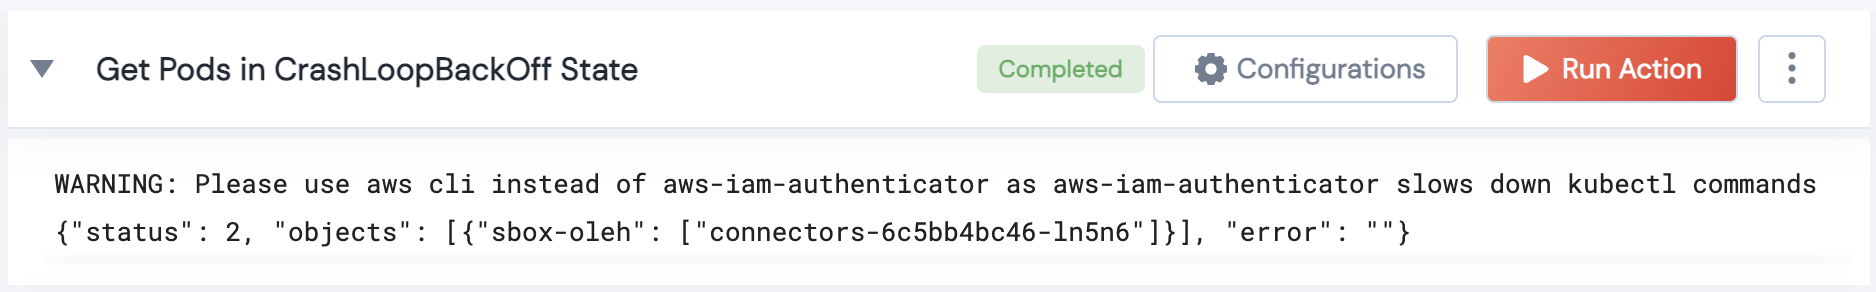
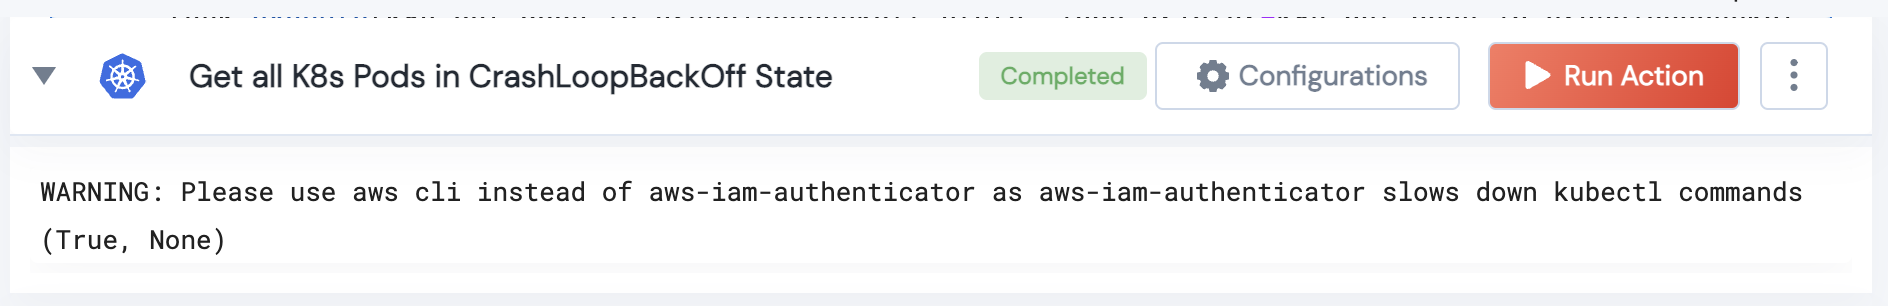
Updated check legos

diff --git a/Kubernetes/legos/k8s_get_config_map_kube_system/k8s_get_config_map_kube_system.py b/Kubernetes/legos/k8s_get_config_map_kube_system/k8s_get_config_map_kube_system.py
@@ -2,16 +2,16 @@
 # Copyright (c) 2021 unSkript, Inc
 # All rights reserved.
 ##
-from typing import List
-
+from typing import Optional, List, Tuple
 from kubernetes import client
 from pydantic import BaseModel, Field
 from tabulate import tabulate
+from unskript.legos.kubernetes.k8s_kubectl_command.k8s_kubectl_command import k8s_kubectl_command
 
 
 class InputSchema(BaseModel):
-    namespace: str = Field(
-        default='all',
+    namespace: Optional[str] = Field(
+        default=" ",
         title='Namespace',
         description='Kubernetes namespace')
     config_map_name: str = Field(
@@ -21,40 +21,42 @@ class InputSchema(BaseModel):
 
 def k8s_get_config_map_kube_system_printer(output):
     if output is None:
-        return 
-    
-    for config in output:
-        data_set_1 = []
-        data_set_1.append("Name:")
-        data_set_1.append(config.metadata.name)
+        return
+    for x in output:
+        for k,v in x.items():
+            if k=='details':
+                for config in v:
+                    data_set_1 = []
+                    data_set_1.append("Name:")
+                    data_set_1.append(config.metadata.name)
 
-        data_set_2 = []
-        data_set_2.append("Namespace:")
-        data_set_2.append(config.metadata.namespace)
+                    data_set_2 = []
+                    data_set_2.append("Namespace:")
+                    data_set_2.append(config.metadata.namespace)
 
-        data_set_3 = []
-        data_set_3.append("Labels:")
-        data_set_3.append(config.metadata.labels)
+                    data_set_3 = []
+                    data_set_3.append("Labels:")
+                    data_set_3.append(config.metadata.labels)
 
-        data_set_4 = []
-        data_set_4.append("Annotations:")
-        data_set_4.append(config.metadata.annotations)
+                    data_set_4 = []
+                    data_set_4.append("Annotations:")
+                    data_set_4.append(config.metadata.annotations)
 
-        data_set_5 = []
-        data_set_5.append("Data:")
-        data_set_5.append(config.data)
+                    data_set_5 = []
+                    data_set_5.append("Data:")
+                    data_set_5.append(config.data)
 
-        tabular_config_map = []
-        tabular_config_map.append(data_set_1)
-        tabular_config_map.append(data_set_2)
-        tabular_config_map.append(data_set_3)
-        tabular_config_map.append(data_set_4)
-        tabular_config_map.append(data_set_5)
+                    tabular_config_map = []
+                    tabular_config_map.append(data_set_1)
+                    tabular_config_map.append(data_set_2)
+                    tabular_config_map.append(data_set_3)
+                    tabular_config_map.append(data_set_4)
+                    tabular_config_map.append(data_set_5)
 
-        print(tabulate(tabular_config_map, tablefmt="github"))
+                    print(tabulate(tabular_config_map, tablefmt="github"))
 
 
-def k8s_get_config_map_kube_system(handle, config_map_name: str = '', namespace: str = 'all') -> List:
+def k8s_get_config_map_kube_system(handle, config_map_name: str = '', namespace: str = None)->List:
     """k8s_get_config_map_kube_system get kube system config map
 
         :type handle: object
@@ -66,19 +68,29 @@ def k8s_get_config_map_kube_system(handle, config_map_name: str = '', namespace:
         :type namespace: str
         :param namespace: Kubernetes namespace.
 
-        :rtype: List
+        :rtype: List of system kube config maps for a given namespace
     """
-    retval = None
+    all_namespaces = [namespace]
+    cmd = f"kubectl get ns  --no-headers -o custom-columns=':metadata.name'"
+    if namespace is None or len(namespace)==0:
+        kubernetes_namespaces = k8s_kubectl_command(handle=handle,kubectl_command=cmd )
+        replaced_str = kubernetes_namespaces.replace("\n"," ")
+        stripped_str = replaced_str.strip()
+        all_namespaces = stripped_str.split(" ")
+    result = []
     coreApiClient = client.CoreV1Api(api_client=handle)
+    for n in all_namespaces:
+        config_map_dict = {}
+        res = coreApiClient.list_namespaced_config_map(
+            namespace=n, pretty=True)
+        if len(res.items) > 0:
+            if config_map_name:
+                config_maps = list(
+                    filter(lambda x: (x.metadata.name == config_map_name), res.items))
+            else:
+                config_maps = res.items
+            config_map_dict["namespace"] = n
+            config_map_dict["details"] = config_maps
+            result.append(config_map_dict)
+    return result
 
-    res = coreApiClient.list_namespaced_config_map(
-        namespace=namespace, pretty=True)
-    if len(res.items) > 0:
-        if config_map_name:
-            config_maps = list(
-                filter(lambda x: (x.metadata.name == config_map_name), res.items))
-        else:
-            config_maps = res.items
-        retval = config_maps
-
-    return retval

diff --git a/Kubernetes/legos/k8s_get_pods_in_crashloopbackoff_state/k8s_get_pods_in_crashloopbackoff_state.py b/Kubernetes/legos/k8s_get_pods_in_crashloopbackoff_state/k8s_get_pods_in_crashloopbackoff_state.py
@@ -4,7 +4,7 @@
 #
 
 from pydantic import BaseModel, Field
-from typing import Optional
+from typing import Optional, Tuple
 from unskript.legos.utils import CheckOutput, CheckOutputStatus
 from collections import defaultdict
 import json
@@ -26,7 +26,7 @@ def k8s_get_pods_in_crashloopbackoff_state_printer(output):
         pprint.pprint(output)
 
 
-def k8s_get_pods_in_crashloopbackoff_state(handle, namespace: str=None) -> CheckOutput:
+def k8s_get_pods_in_crashloopbackoff_state(handle, namespace: str=None) -> Tuple:
     """k8s_get_pods_in_crashloopbackoff_state executes the given kubectl command to find pods in CrashLoopBackOff State
 
         :type handle: object
@@ -35,7 +35,7 @@ def k8s_get_pods_in_crashloopbackoff_state(handle, namespace: str=None) -> Check
         :type namespace: Optional[str]
         :param namespace: Namespace to get the pods from. Eg:"logging", if not given all namespaces are considered
 
-        :rtype: Status, List of pods in CrashLoopBackOff State and error if any 
+        :rtype: Status, List of pods in CrashLoopBackOff State 
     """
     if handle.client_side_validation != True:
         print(f"K8S Connector is invalid: {handle}")
@@ -70,12 +70,9 @@ def k8s_get_pods_in_crashloopbackoff_state(handle, namespace: str=None) -> Check
         res = defaultdict(list)
         for key, val in unhealthy_pods:
             res[key].append(val)
-    result = dict(res)
+    if len(res)!=0:
+        result.append(dict(res)) 
     if len(result) != 0:
-        return CheckOutput(status=CheckOutputStatus.FAILED,
-                   objects=[result],
-                   error=str(""))
+        return (False, result)
     else:
-        return CheckOutput(status=CheckOutputStatus.SUCCESS,
-                   objects=[result],
-                   error=str(""))
+        return (True, None)

diff --git a/Kubernetes/legos/k8s_get_config_map_kube_system/README.md b/Kubernetes/legos/k8s_get_config_map_kube_system/README.md
@@ -12,8 +12,8 @@ This Lego get k8s kube system config map.
     k8s_get_config_map_kube_system(handle: object,config_map_name: str, namespace: str)
 
         handle: Object of type unSkript K8S Connector
-        config_map_name: Kubernetes Config Map Name.
-        namespace: Kubernetes namespace.
+        config_map_name: Kubernetes Config Map Name.(Optional)
+        namespace: Kubernetes namespace.(Optional)
 
 ## Lego Input
 This Lego take three input handle, config_map_name and namespace.

diff --git a/Kubernetes/legos/k8s_get_pods_in_crashloopbackoff_state/README.md b/Kubernetes/legos/k8s_get_pods_in_crashloopbackoff_state/README.md
@@ -10,7 +10,7 @@ This Lego get all evicted pods in CrashLoopBackOff State from given namespace. I
     k8s_get_pods_in_crashloopbackoff_state(handle, namespace: str = None)
 
         handle: Object of type unSkript K8S Connector
-        namespace: k8s namespace.
+        namespace: k8s namespace.(Optional)
 
 ## Lego Input
 
